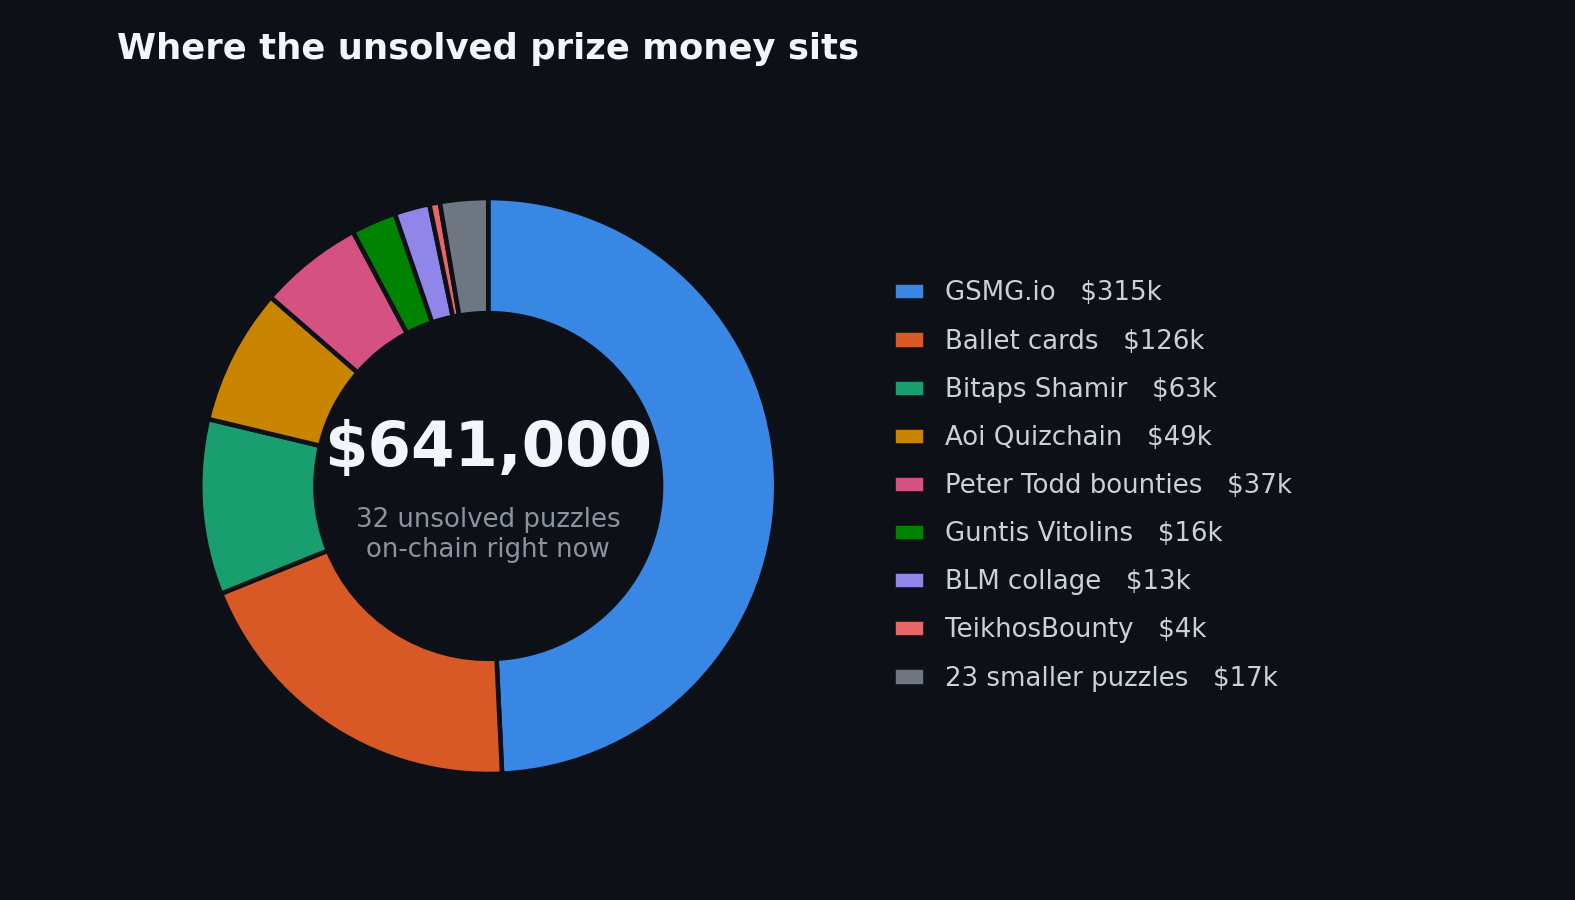
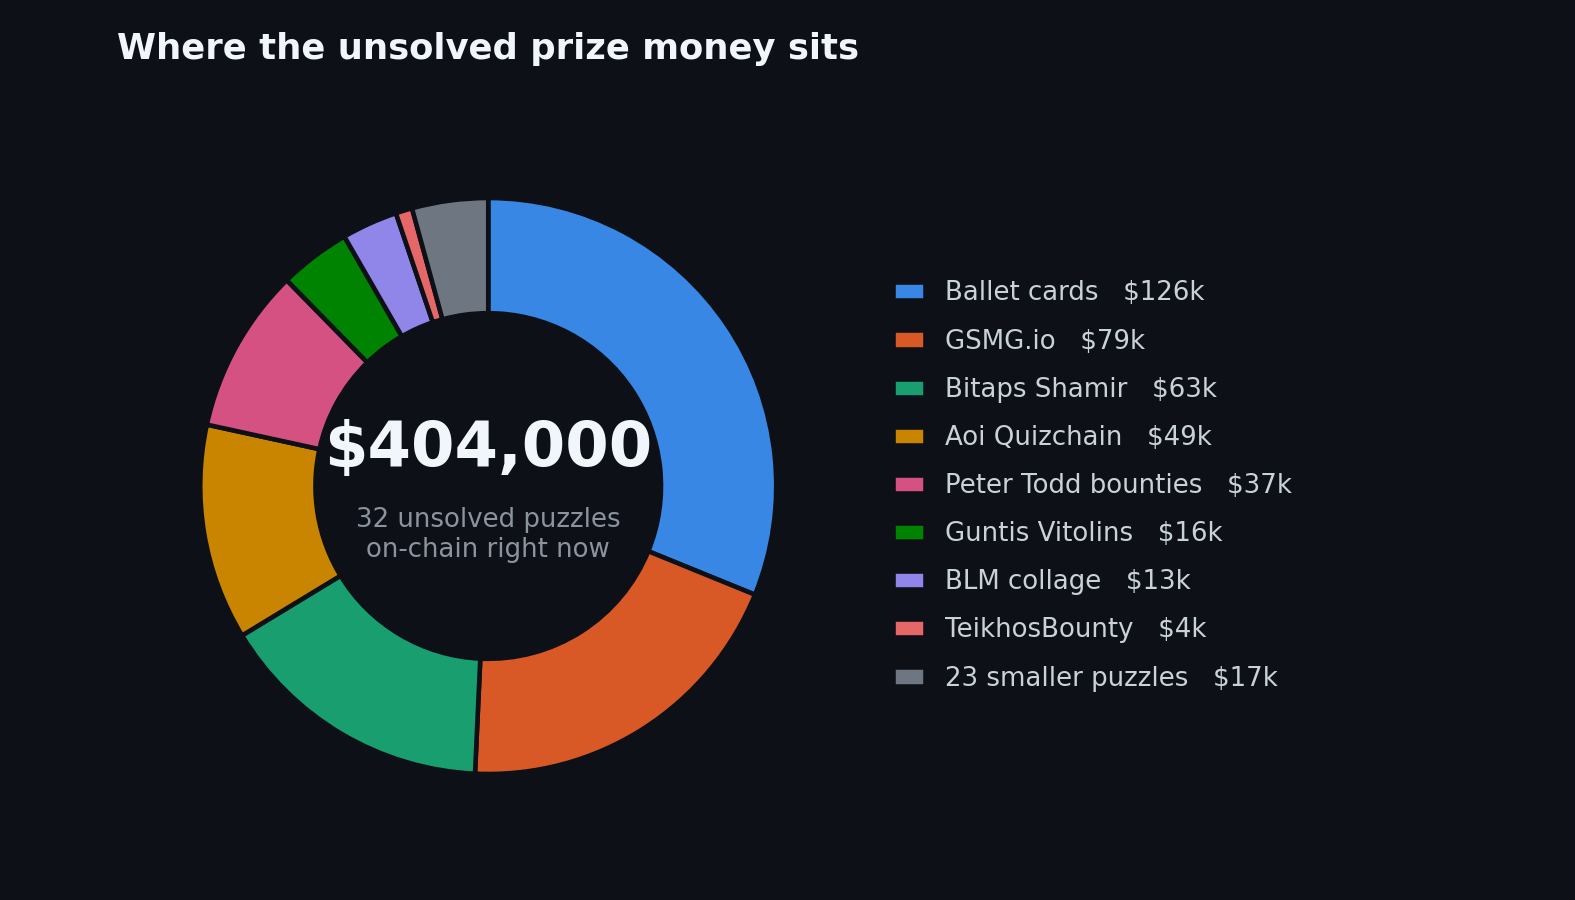
index: regenerate puzzles.json, tier tables and the prize map after the GSMG prize correction

Changed region(s): [[0.1244, 0.2178, 0.4978, 0.8711], [0.5911, 0.3111, 0.7778, 0.4044]]

diff --git a/README.md b/README.md
@@ -13,11 +13,11 @@ on-chain right now.
 <!-- totals:start -->
 | Asset | Locked in unsolved puzzles | Approx. value |
 |---|---|---|
-| Bitcoin | 9.72 BTC | $612,000 |
+| Bitcoin | 5.97 BTC | $376,000 |
 | Ethereum | 13.21 ETH | $25,000 |
 | Arweave | 1,900 AR | $3,400 |
 | Stablecoins | 306 USDT + 0 USDC | $300 |
-| **Total** | **across 32 funded puzzles** | **$641,000** |
+| **Total** | **across 32 funded puzzles** | **$404,000** |
 
 Checked 2026-08-16 at BTC $63,000, ETH $1,880, AR $1.81. Prices and balances move; verify each escrow yourself.
 <!-- totals:end -->
@@ -61,7 +61,7 @@ grouped by prize, is in the tables below.
 | [Keir Finlow-Bates: book treasure hunt](2-mid-prizes/keir-finlow-bates-blockchain-book-600ksats/) | 600,000 sats open, 4 lots solved | I solved 4 of its 12 lots; the write-ups show exactly how the author hides a key, which is the strongest lead for the 3 still open. |
 | [Corey Phillips: kitten passphrase](2-mid-prizes/corey-phillips-kitten-passphrase-1msats/) | 0.01 BTC | The seed is fixed and public; only one BIP39 passphrase is missing. A clean, bounded target to point a tool at. |
 | [Keysa: Crack the Seed](2-mid-prizes/keysa-crack-the-seed-369ksats/) | 369,369 sats | Seventy words are printed on a card; twelve of them are the seed. The whole puzzle is picking the right twelve in the right order. |
-| [GSMG.io puzzle](1-big-prizes/gsmg-io-5btc-puzzle/) | up to 5 BTC | A famous multi-stage hunt; every stage but the last is solved. The final gate is two sealed AES blobs. |
+| [GSMG.io puzzle](1-big-prizes/gsmg-io-5btc-puzzle/) | 1.25 BTC | A famous multi-stage hunt; every stage but the last is solved. The final gate is two sealed AES blobs. |
 | [Guntis Vitolins MetaMask seed](1-big-prizes/guntis-vitolins-metamask-8-6eth/) | 8.61 ETH | The largest prize here. A 12-word seed scattered across the author's own clues. |
 | [Ballet / Bobby Lee cards](1-big-prizes/ballet-bobby-lee-2btc-cards/) | 2 BTC | Two physical Ballet cards, 1 BTC each. Each needs one hidden half that was never photographed. |
 | [Aoi Nakamoto Quizchain](1-big-prizes/aoi-nakamoto-quizchain-0-854btc/) | 0.854 BTC | The key comes from a Wattpad chapter run through MD5. The rule is certified on a solved sibling block. |
@@ -75,10 +75,10 @@ grouped by prize, is in the tables below.
 ## Big prizes (>= $10,000)
 | Puzzle | Prize | USD | Chain | Type | What remains | Escrow checked | Status |
 |---|---|---|---|---|---|---|---|
-| [GSMG.io Puzzle](1-big-prizes/gsmg-io-5btc-puzzle/) | 5.0068982 BTC | 315,435 | bitcoin | text-cipher, pixel-code, web-tree, raw-private-key | insight | 2026-08-16 | open |
 | [Ballet / Bobby Lee: Take Bobby's Bitcoin](1-big-prizes/ballet-bobby-lee-2btc-cards/) | 2.00007358 BTC | 126,005 | bitcoin | bip38, physical-object | external-info | 2026-08-16 | open |
-| [Bitaps Shamir Secret Sharing Challenge](1-big-prizes/bitaps-shamir-challenge-1btc/) | 1.00016775 BTC | 63,011 | bitcoin | shamir, bip39-seed | external-info | 2026-08-16 | open |
-| [Aoi Nakamoto Quizchain](1-big-prizes/aoi-nakamoto-quizchain-0-854btc/) | 0.777 BTC | 48,951 | bitcoin | bip39-seed, word-selection | external-info | 2026-08-21 | open |
+| [GSMG.io Puzzle](1-big-prizes/gsmg-io-5btc-puzzle/) | 1.2563451 BTC | 79,150 | bitcoin | text-cipher, pixel-code, web-tree, raw-private-key | insight | 2026-09-03 | open |
+| [Bitaps Shamir Secret Sharing Challenge](1-big-prizes/bitaps-shamir-challenge-1btc/) | 1.00016775 BTC | 63,011 | bitcoin | shamir, bip39-seed | external-info | 2026-08-28 | open |
+| [Aoi Nakamoto Quizchain](1-big-prizes/aoi-nakamoto-quizchain-0-854btc/) | 0.777 BTC | 48,951 | bitcoin | bip39-seed, word-selection | external-info | 2026-08-27 | open |
 | [Peter Todd Hash Collision Bounties](1-big-prizes/peter-todd-hash-collision-bounties-0-59btc/) | 0.59364885 BTC | 37,400 | bitcoin | hash-collision | research-breakthrough | 2026-08-16 | watch |
 | [Guntis Vitolins: 10 ETH Challenge](1-big-prizes/guntis-vitolins-metamask-8-6eth/) | 8.612541554256945 ETH | 16,192 | ethereum | bip39-seed, word-selection, video-series | bounded-compute | 2026-08-16 | open |
 | [BLM Collage: Welcome to the Brave New World](1-big-prizes/blm-brave-new-world-0-2btc/) | 20,107,284 sats | 12,668 | bitcoin | image-stego, word-selection, bip39-seed, text-cipher | insight | 2026-08-16 | open |
@@ -102,7 +102,7 @@ grouped by prize, is in the tables below.
 | [AH White: Walking Banks](2-mid-prizes/ah-white-walking-banks-800ksats/) | 800,000 sats | 504 | bitcoin | bip39-seed, book, text-cipher | external-info | 2026-08-16 | open |
 | [Keir Finlow-Bates: Move Over Brokers Treasure Hunt](2-mid-prizes/keir-finlow-bates-blockchain-book-600ksats/) | 600,000 sats | 378 | bitcoin | book, brainwallet, text-cipher | human-action | 2026-09-01 | open |
 | [Zden Cryptopuzzle LVL.5](2-mid-prizes/zden-haluska-lvl5-555ksats/) | 555,550 sats | 350 | bitcoin | geometry, raw-private-key | external-info | 2026-08-16 | open |
-| [FTPK Season 2: Never-Ending](2-mid-prizes/ftpk-season-2-300usdt/) | 305.930218 USDT | 306 | ethereum | bip39-seed, word-selection | insight | 2026-08-16 | open |
+| [FTPK Season 2: Never-Ending](2-mid-prizes/ftpk-season-2-300usdt/) | 305.930218 USDT | 306 | ethereum | bip39-seed, word-selection | insight | 2026-08-27 | open |
 | [Andy Bauch: New Money, COG](2-mid-prizes/andy-bauch-new-money-cog-428ksats/) | 428,206 sats | 270 | bitcoin | pixel-code, physical-object | external-info | 2026-08-16 | open |
 | [Keysa: Crack the Seed Game](2-mid-prizes/keysa-crack-the-seed-369ksats/) | 369,369 sats | 233 | bitcoin | bip39-seed, word-selection | insight | 2026-08-16 | open |
 | [Zden Level HALV](2-mid-prizes/zden-haluska-halv-312ksats/) | 312,500 sats | 197 | bitcoin | geometry, raw-private-key | external-info | 2026-08-16 | open |
@@ -113,7 +113,7 @@ grouped by prize, is in the tables below.
 |---|---|---|---|---|---|---|---|
 | [Crypto Puzzles 2018: Puzzle #2](3-small-prizes/crypto-puzzles-2018-puzzle-2-0-05eth/) | 0.05 ETH | 94 | ethereum | raw-private-key, image-stego, video-series | external-info | 2026-08-16 | open |
 | [Genesis Block Wallet Puzzle](3-small-prizes/genesis-block-wallet-puzzle-142ksats/) | 142,779 sats | 90 | bitcoin | multisig, raw-private-key | insight | 2026-08-29 | open |
-| [Bitcoin Movie Enigma](3-small-prizes/bitcoin-movie-enigma-100ksats/) | 100,000 sats | 63 | bitcoin | bip39-seed, text-cipher, word-selection | insight | 2026-08-16 | open |
+| [Bitcoin Movie Enigma](3-small-prizes/bitcoin-movie-enigma-100ksats/) | 100,000 sats | 63 | bitcoin | bip39-seed, text-cipher, word-selection | insight | 2026-09-01 | open |
 | [Exitonly Bitcoin Challenge 14](3-small-prizes/exitonly-challenge-14-30ksats/) | 30,000 sats | 18.90 | bitcoin | bip39-seed, word-selection | uneconomic | 2026-08-16 | open |
 
 ## Solved and cashed

diff --git a/1-big-prizes/README.md b/1-big-prizes/README.md
@@ -10,8 +10,8 @@ puzzle between tiers, only a change in its actual state does (solved, swept, fun
 <!-- generated:start -->
 | Puzzle | Prize | USD | Chain | Type | What remains | Escrow checked | Status |
 |---|---|---|---|---|---|---|---|
-| [GSMG.io Puzzle](gsmg-io-5btc-puzzle/) | 5.0068982 BTC | 315,435 | bitcoin | text-cipher, pixel-code, web-tree, raw-private-key | insight | 2026-08-16 | open |
 | [Ballet / Bobby Lee: Take Bobby's Bitcoin](ballet-bobby-lee-2btc-cards/) | 2.00007358 BTC | 126,005 | bitcoin | bip38, physical-object | external-info | 2026-08-16 | open |
+| [GSMG.io Puzzle](gsmg-io-5btc-puzzle/) | 1.2563451 BTC | 79,150 | bitcoin | text-cipher, pixel-code, web-tree, raw-private-key | insight | 2026-09-03 | open |
 | [Bitaps Shamir Secret Sharing Challenge](bitaps-shamir-challenge-1btc/) | 1.00016775 BTC | 63,011 | bitcoin | shamir, bip39-seed | external-info | 2026-08-28 | open |
 | [Aoi Nakamoto Quizchain](aoi-nakamoto-quizchain-0-854btc/) | 0.777 BTC | 48,951 | bitcoin | bip39-seed, word-selection | external-info | 2026-08-27 | open |
 | [Peter Todd Hash Collision Bounties](peter-todd-hash-collision-bounties-0-59btc/) | 0.59364885 BTC | 37,400 | bitcoin | hash-collision | research-breakthrough | 2026-08-16 | watch |

diff --git a/3-small-prizes/README.md b/3-small-prizes/README.md
@@ -14,6 +14,6 @@ does not move a puzzle between tiers, only a change in its actual state does.
 |---|---|---|---|---|---|---|---|
 | [Crypto Puzzles 2018: Puzzle #2](crypto-puzzles-2018-puzzle-2-0-05eth/) | 0.05 ETH | 94 | ethereum | raw-private-key, image-stego, video-series | external-info | 2026-08-16 | open |
 | [Genesis Block Wallet Puzzle](genesis-block-wallet-puzzle-142ksats/) | 142,779 sats | 90 | bitcoin | multisig, raw-private-key | insight | 2026-08-29 | open |
-| [Bitcoin Movie Enigma](bitcoin-movie-enigma-100ksats/) | 100,000 sats | 63 | bitcoin | bip39-seed, text-cipher, word-selection | insight | 2026-08-16 | open |
+| [Bitcoin Movie Enigma](bitcoin-movie-enigma-100ksats/) | 100,000 sats | 63 | bitcoin | bip39-seed, text-cipher, word-selection | insight | 2026-09-01 | open |
 | [Exitonly Bitcoin Challenge 14](exitonly-challenge-14-30ksats/) | 30,000 sats | 18.90 | bitcoin | bip39-seed, word-selection | uneconomic | 2026-08-16 | open |
 <!-- generated:end -->
